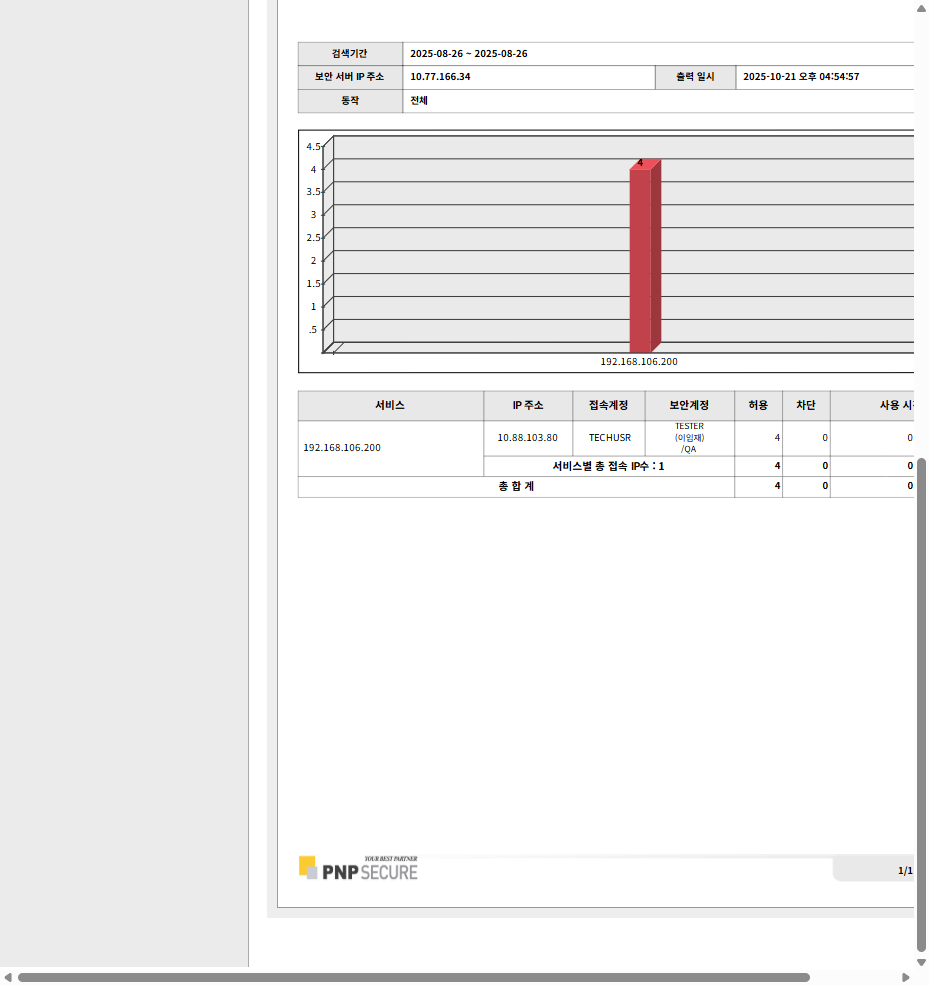
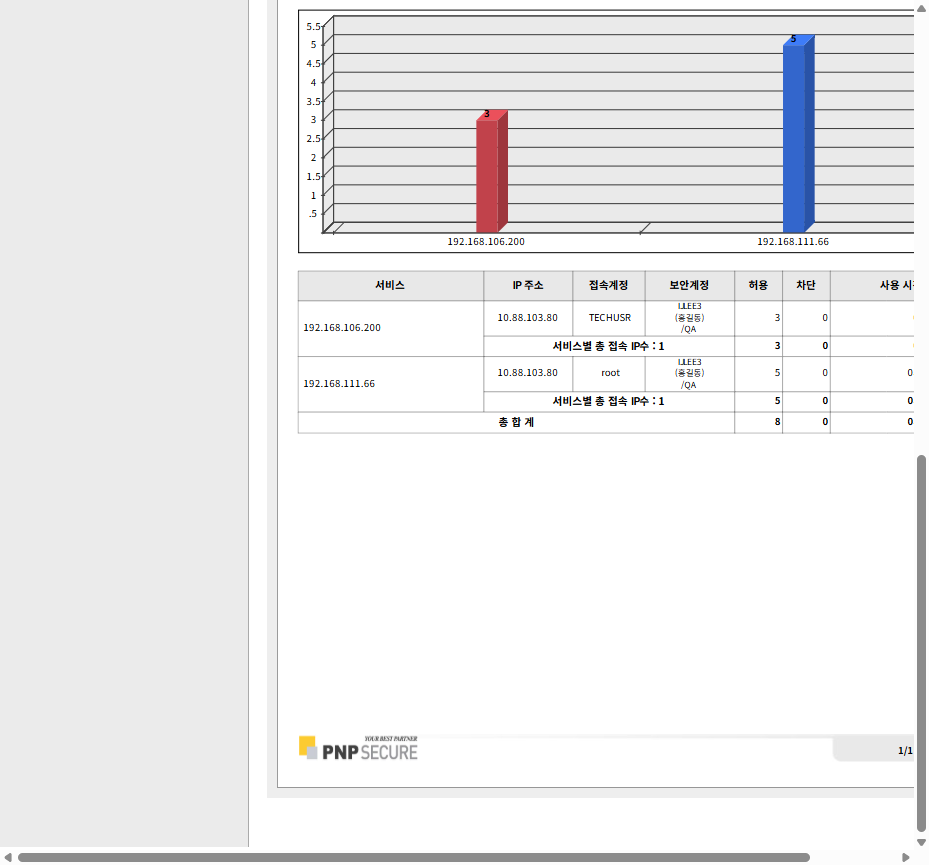
feat

diff --git a/dbscanner.py b/dbscanner.py
@@ -107,7 +107,7 @@ def switch_to_frame_by_id(driver, frame_id, timeout=15):
         EC.frame_to_be_available_and_switch_to_it((By.ID, frame_id))
     )
     log(f"프레임 전환: #{frame_id}")
-
+    time.sleep(1)
 def switch_into_scanconf_iframe_if_any(driver, wait, timeout=10):
     """스캔설정 목록 iframe(#scanConfListIfrm) 진입."""
     driver.switch_to.default_content()
@@ -320,7 +320,7 @@ def go_to_private_result_general(driver, wait):
             safe_js_click(driver, header)
         accept_alert_if_present(driver, "스캔결과(alert)", timeout=1)
         log("메뉴: '스캔결과' 섹션 선택")
-        time.sleep(0.2)
+        time.sleep(2)
     except Exception as e:
         log(f"경고: '스캔결과' 섹션 클릭 실패(무시 가능) -> {e}")
 
@@ -335,7 +335,7 @@ def go_to_private_result_general(driver, wait):
             safe_js_click(driver, sec)
         accept_alert_if_present(driver, "개인정보 스캔결과(alert)", timeout=1)
         log("메뉴: '개인정보 스캔결과' 선택")
-        time.sleep(0.2)
+        time.sleep(2)
     except Exception as e:
         log(f"경고: '개인정보 스캔결과' 클릭 실패(무시 가능) -> {e}")
 
@@ -389,6 +389,7 @@ def click_top_detail_label_in_popup(driver, wait, label_text: str):
         safe_js_click(driver, span_el)
 
     log(f"상세 그리드(팝업): 맨 위 '{label_text}' 클릭 완료")
+    time.sleep(1)
     return True
 
 def validate_sample_phone_data_from_detail_popup(driver, wait, expected_profile_name="휴대폰"):
@@ -401,7 +402,7 @@ def validate_sample_phone_data_from_detail_popup(driver, wait, expected_profile_
     profile = driver.execute_script("return document.querySelector('#profileName')?.value || '';")
 
     log(f"샘플 profileName='{profile}', bytes={len(result)}")
-
+    
     if profile.strip() != expected_profile_name:
         log(f"[FAIL] profileName 불일치: '{profile}' (기대: '{expected_profile_name}')")
         return False

diff --git a/excel.py b/excel.py
@@ -1,0 +1,34 @@
+import paramiko
+import openpyxl
+import os
+import config
+import logging
+import datetime
+from datetime import datetime, timedelta
+import time
+excel_path = r"C:\Users\ijlee\Desktop\COMMON_UTIL TCL V 2.5.7_20251024.xlsx"
+target_sheet = "자동화 호환성 테스트 항목"
+
+if not os.path.exists(excel_path):
+    raise FileNotFoundError(f"엑셀 파일을 찾을 수 없습니다: {excel_path}")
+
+wb = openpyxl.load_workbook(excel_path)
+if target_sheet not in wb.sheetnames:
+    raise ValueError(f"시트를 찾을 수 없습니다: '{target_sheet}' (시트 목록: {wb.sheetnames})")
+
+ws = wb[target_sheet]
+
+# H열(열 인덱스 8) H7 ~ H53에 "O" 입력
+for r in range(7, 54):   # 7..53
+    ws.cell(row=r, column=8, value="O")
+
+wb.save(excel_path)
+print(f"DB 접속완료")
+# 세부로직 업데이트 예정 
+print(f"웹제품 DB  값 체크 중")
+# 세부로직 업데이트 예정 
+print(f"웹제품 DB 값 확인 완료 ")
+# 세부로직 업데이트 예정 
+time.sleep(3)
+print(f" ======= COMMON_UTIL 자동화 테스트 종료 =======")
+

diff --git a/err_log.py b/err_log.py
@@ -26,6 +26,7 @@ import paramiko
 from openpyxl import load_workbook, Workbook
 from openpyxl.utils import get_column_letter
 from openpyxl.styles import Alignment
+import runpy, pathlib
 
 # ======================= 사용자/환경 설정 =======================
 SSH_CONF = {
@@ -45,7 +46,7 @@ LOG_PATHS = [
 ]
 
 DESKTOP = os.path.join(os.path.expanduser("~"), "Desktop")
-EXCEL_PATH = os.path.join(DESKTOP, "COMMON_UTIL TCL V 2.5.7_20251021.xlsx")
+EXCEL_PATH = os.path.join(DESKTOP, "COMMON_UTIL TCL V 2.5.7_20251024.xlsx")
 
 WINDOW_SECONDS = 180  # 최근 3분
 
@@ -395,3 +396,5 @@ if __name__ == "__main__":
         print(f"[ERR] SSH 연결 실패: {e}")
     except Exception as e:
         print(f"[ERR] 예외 발생: {e}")
+
+runpy.run_path(str(pathlib.Path(__file__).with_name("excel.py")), run_name="__main__")

diff --git a/pcassist_login.py b/pcassist_login.py
@@ -21,8 +21,8 @@ TESSERACT_PATH = r"C:\Program Files\Tesseract-OCR\tesseract.exe"
 CAP_X, CAP_Y, CAP_W, CAP_H = 1600, 160, 150, 60
 
 # 3) 디버깅용 이미지 저장 위치
-SAVE_RAW = r"C:\Users\ijlee\Downloads\otp_area_debug.png"
-SAVE_BW  = r"C:\Users\ijlee\Downloads\otp_processed_bw.png"
+SAVE_RAW = r"C:\Users\ijlee\AppData\Local\Programs\Python\2025\auto\screens\otp_area_debug.png"
+SAVE_BW = r"C:\Users\ijlee\AppData\Local\Programs\Python\2025\auto\screens\otp_processed_bw.png"
 
 # 4) DBSAFER AGENT 실행 파일 경로
 APP_PATH = r"C:\Program Files (x86)\PNPSECURE\DBSAFER AGENT\DBSaferAgt.exe"

diff --git a/report.py b/report.py
@@ -140,11 +140,11 @@ try:
 
     # 날짜 설정
     today = datetime.date.today().strftime('%Y-%m-%d')
-    for el_id, val in (('strDate', '2025-08-26'), ('endDate', '2025-08-26')):
+    for el_id, val in (('strDate', '2025-10-23'), ('endDate', today)):
         el = wait.until(EC.presence_of_element_located((By.ID, el_id)))
         el.clear()
         el.send_keys(val)
-    log_message(f"날짜 설정 완료: 2025-08-26 ~ 2025-08-26 (오늘: {today})")
+    log_message(f"날짜 설정 완료: (오늘: {today})")
     time.sleep(0.5)
 
     # 조회 버튼 클릭
